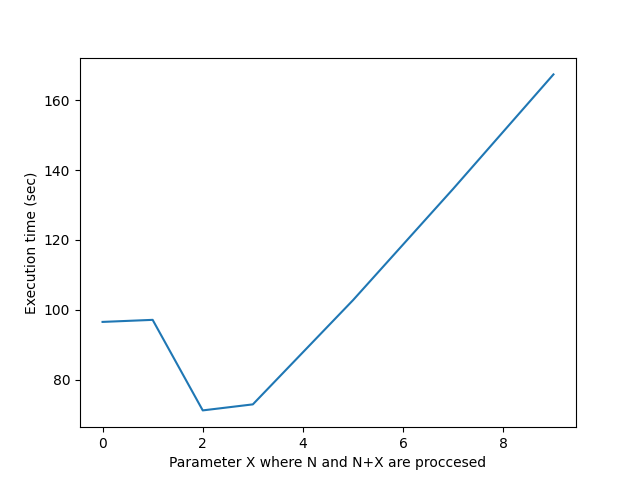
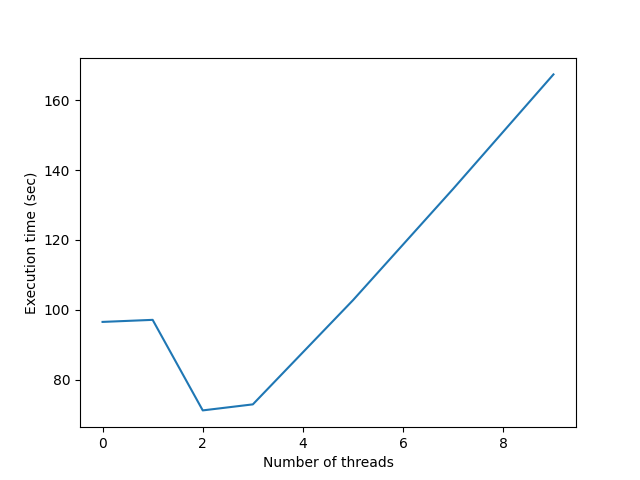
bug fix

Changed region(s): [[0.25, 0.9375, 0.75, 1.0]]

diff --git a/outputs/analyze-4.py b/outputs/analyze-4.py
@@ -71,19 +71,19 @@ print("Z")
 print(z)
 
 plt.plot(y, w)
-plt.xlabel("Parameter X where N and N+X are proccesed")
+plt.xlabel("Number of threads")
 plt.ylabel('% Error in Dynamic Density')
 #plt.show()
 plt.savefig("./method_4/dynamic error")
 plt.close()
 plt.plot(y, x)
-plt.xlabel("Parameter X where N and N+X are proccesed")
+plt.xlabel("Number of threads")
 plt.ylabel('% Error in Queue Density')
 #plt.show()
 plt.savefig("./method_4/queue error")
 plt.close()
 plt.plot(y, z)
-plt.xlabel("Parameter X where N and N+X are proccesed")
+plt.xlabel("Number of threads")
 plt.ylabel('Execution time (sec)')
 #plt.show()
 plt.savefig("./method_4/time_taken")

diff --git a/outputs/analyze-2.py b/outputs/analyze-2.py
@@ -71,19 +71,19 @@ print("Z")
 print(z)
 
 plt.plot(y, w)
-plt.xlabel("Parameter X where N and N+X are proccesed")
+plt.xlabel("Resolution")
 plt.ylabel('% Error in Dynamic Density')
 #plt.show()
 plt.savefig("./method_2/dynamic error")
 plt.close()
 plt.plot(y, x)
-plt.xlabel("Parameter X where N and N+X are proccesed")
+plt.xlabel("Resolution")
 plt.ylabel('% Error in Queue Density')
 #plt.show()
 plt.savefig("./method_2/queue error")
 plt.close()
 plt.plot(y, z)
-plt.xlabel("Parameter X where N and N+X are proccesed")
+plt.xlabel("Resolution")
 plt.ylabel('Execution time (sec)')
 #plt.show()
 plt.savefig("./method_2/time_taken")
